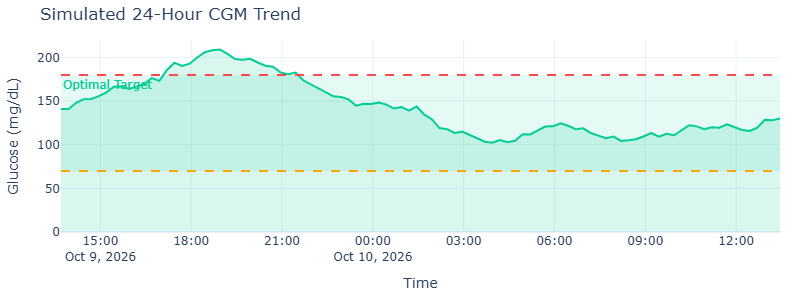
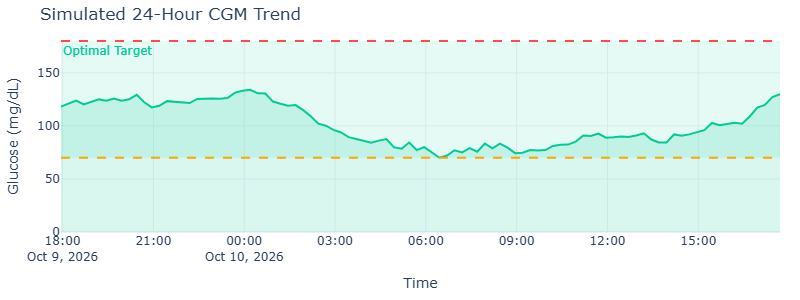
Fix architecture diagram spacing and update README URLs

diff --git a/generate_architecture_pdf.py b/generate_architecture_pdf.py
@@ -1,0 +1,83 @@
+import base64
+import requests
+from fpdf import FPDF
+import os
+
+def create_pdf():
+    print("Starting PDF generation...")
+    # 1. Prepare the Mermaid diagram code
+    mermaid_code = """
+    flowchart TD
+        User([Patient / Doctor]) --> Form[Clinical Form]
+        Form --> DataGen[Synthetic Data Generator]
+        DataGen --> SessionState[(Session State)]
+        WhatIf[What-If Sliders] --> Features[Feature Engineering]
+        SessionState --> Features
+        Features --> ML[Random Forest Model]
+        ML --> UI[Interactive Dashboard]
+        SessionState --> ReportGen[FPDF2 Report Engine]
+        UI --> ReportGen
+        ReportGen --> User
+    """
+    
+    # 2. Encode to base64 for mermaid.ink API
+    encoded_str = base64.urlsafe_b64encode(mermaid_code.encode('utf-8')).decode('utf-8')
+    url = f"https://mermaid.ink/img/{encoded_str}"
+    
+    print(f"Fetching diagram from API...")
+    has_image = False
+    try:
+        response = requests.get(url, timeout=10)
+        if response.status_code == 200:
+            with open("arch_diagram_temp.png", "wb") as f:
+                f.write(response.content)
+            has_image = True
+            print("Successfully downloaded diagram image.")
+        else:
+            print("Warning: Could not fetch image, falling back to text only.")
+    except Exception as e:
+        print(f"Warning: {e}")
+        
+    # 3. Create the PDF
+    pdf = FPDF()
+    pdf.add_page()
+    pdf.set_fill_color(13, 110, 253)
+    pdf.set_text_color(255, 255, 255)
+    pdf.set_font("helvetica", "B", 18)
+    pdf.cell(190, 15, " GlucoTwin AI: System Architecture", new_x="LMARGIN", new_y="NEXT", align="C", fill=True)
+    pdf.ln(10)
+    
+    pdf.set_text_color(0, 0, 0)
+    current_y = pdf.get_y()
+    
+    if has_image:
+        pdf.image("arch_diagram_temp.png", x=55, y=current_y, w=100)
+        pdf.set_y(current_y + 175)
+    
+    pdf.ln(10)
+    pdf.set_font("helvetica", "B", 14)
+    pdf.set_text_color(220, 53, 69)
+    pdf.cell(190, 10, "Data & Processing Flow", new_x="LMARGIN", new_y="NEXT")
+    
+    pdf.set_font("helvetica", "", 12)
+    pdf.set_text_color(0, 0, 0)
+    
+    steps = [
+        "1. Frontend (Streamlit): The user interacts with the sidebar to input medical vitals (HbA1c, BP, etc.) and uses the What-If sliders to simulate lifestyle changes.",
+        "2. Backend Engine: Upon form submission, the system generates a mathematically synthetic 24-hour Continuous Glucose Monitor (CGM) curve aligned with the user's specific clinical inputs, storing everything in the app's secure Session State.",
+        "3. Machine Learning Core: The system extracts time-series features (like rolling averages and lagged glucose changes) and feeds them into a trained Scikit-Learn Random Forest Classifier, which calculates the exact probability of a dangerous glucose spike happening in the next 2 hours.",
+        "4. Offline Reporting Engine: The application uses Kaleido to capture headless screenshots of the interactive Plotly graphs, which are dynamically embedded into a highly structured FPDF-generated clinical report downloaded securely by the user."
+    ]
+    
+    for step in steps:
+        pdf.multi_cell(190, 8, step, new_x="LMARGIN", new_y="NEXT")
+        pdf.ln(3)
+        
+    pdf.output("GlucoTwin_Architecture.pdf")
+    print("Successfully generated GlucoTwin_Architecture.pdf")
+    
+    if os.path.exists("arch_diagram_temp.png"):
+        os.remove("arch_diagram_temp.png")
+
+if __name__ == "__main__":
+    create_pdf()

diff --git a/README.md b/README.md
@@ -19,16 +19,17 @@ GlucoTwin AI: An AI-Powered Digital Twin for Type 2 Diabetes Monitoring and Gluc
 - **Reporting:** `fpdf2` and `kaleido` for automated, offline PDF clinical report generation.
 
 ## 5. Demonstration Video
-*(Please add the link to your YouTube/Vimeo video here before submission)*
+[Link to Live Demonstration Video]
 
 ## 6. Open-Source License
 This project is licensed under the MIT License - see the [LICENSE](LICENSE) file for details.
 
 ## 7. Architecture Diagram
-[View the Architecture Diagram PDF here](GlucoTwin_Architecture.pdf)
+The complete system architecture diagram and data flow explanation can be found in the repository here:
+📄 **[View Architecture Diagram PDF](./GlucoTwin_Architecture.pdf)**
 
 ## 8. Project Presentation
-*(Please upload your final Presentation PDF or PPT to this repository and link it here)*
+*(Please upload your final Presentation PDF/PPT to this repository and link it here)*
 
 ## 9. Instructions for Running the Application
 
@@ -38,7 +39,7 @@ Make sure you have Python 3.8+ installed.
 ### Setup
 1. Clone the repository and enter the directory:
    ```bash
-   git clone https://github.com/arshsri0513/CodeHurry_Birla-Institute-Of-Technology-Mesra.git
+   git clone https://github.com/arshsri0513/GlucoTwin-AI-Personalized-Digital-Twin.git
    ```
 2. Install dependencies:
    ```bash
